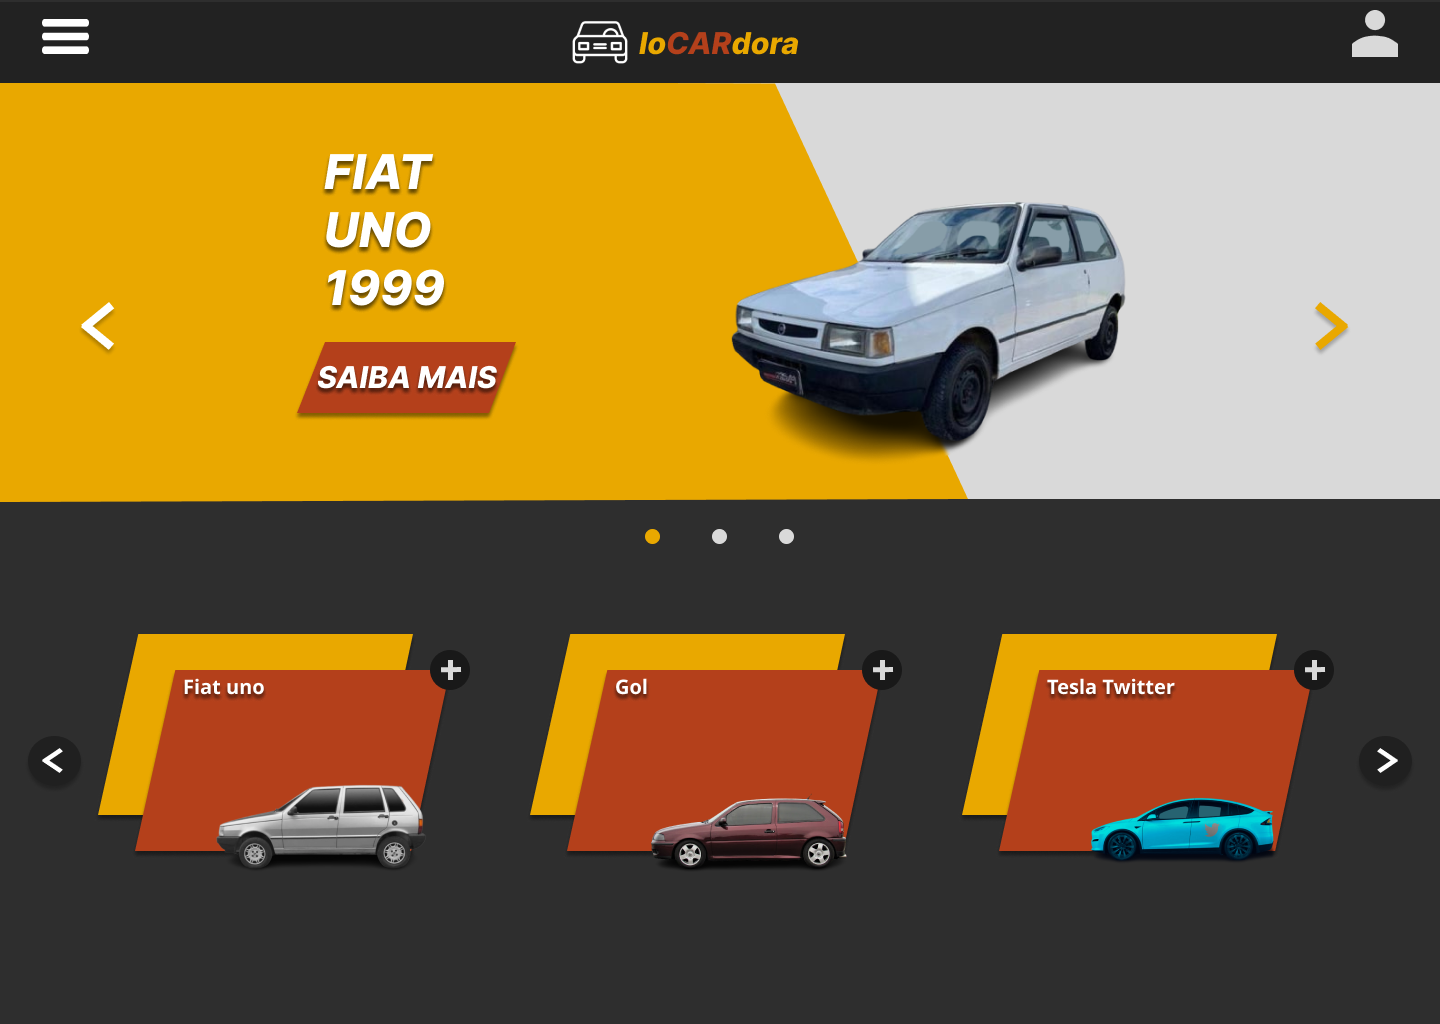
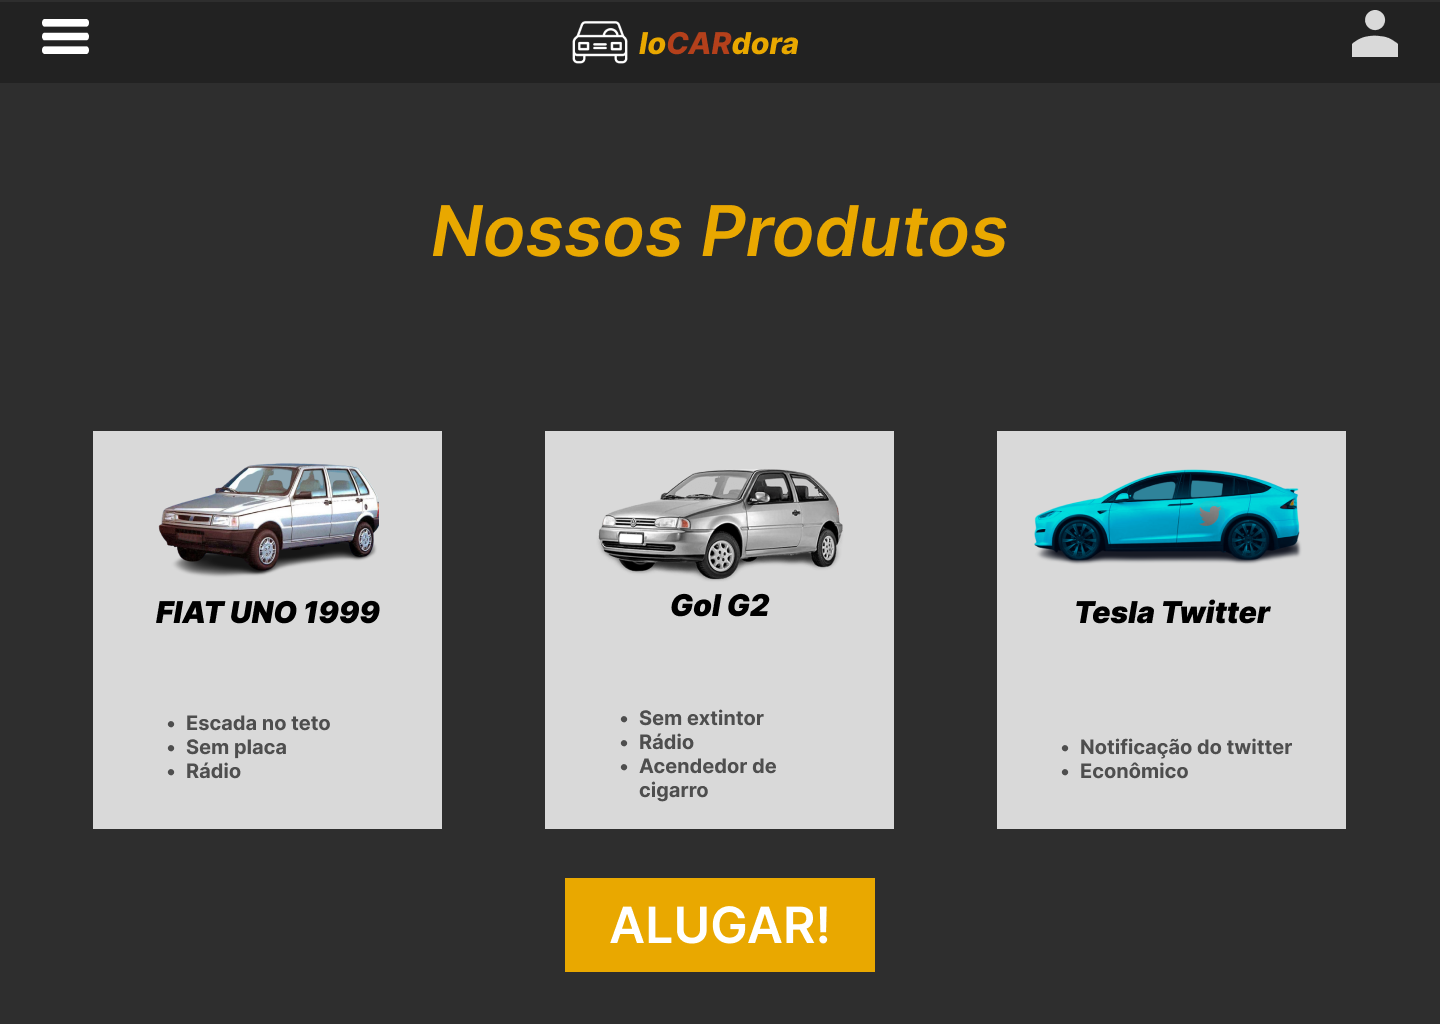
falta só o atualizar

diff --git a/CSS/styl.css b/CSS/styl.css
@@ -194,3 +194,22 @@ button{
 .table{
 width: 80%;
 }
+
+.algl{
+    background-color: #E9A800;
+    color: white;
+    text-decoration: none;  
+    font-size: 40px;
+    text-align: center;
+    margin-left: 700px;
+    margin-right: 700px;
+    border-radius: 10%;
+    margin-top: 100px;
+}
+
+.algl1{
+    background-color: #E9A800;
+    color: white;
+    text-decoration: none;  
+    text-align: center;
+}

diff --git a/lista.php b/lista.php
@@ -51,7 +51,8 @@
     echo '</tbody>';
     echo '</table>';
     }
-?>    
-</div>
+?> <br>  </div>
+<div class="algl"><a class="algl1" href="edit.php">Alugar!</a></div>
+
 </body>
 </html>
